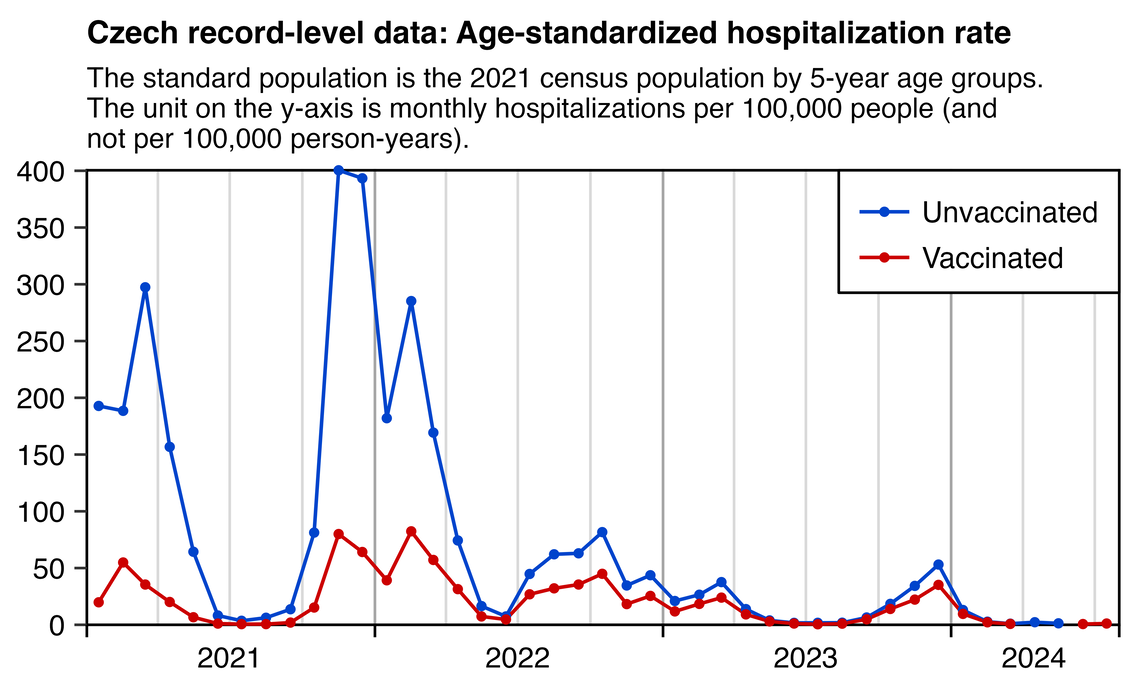
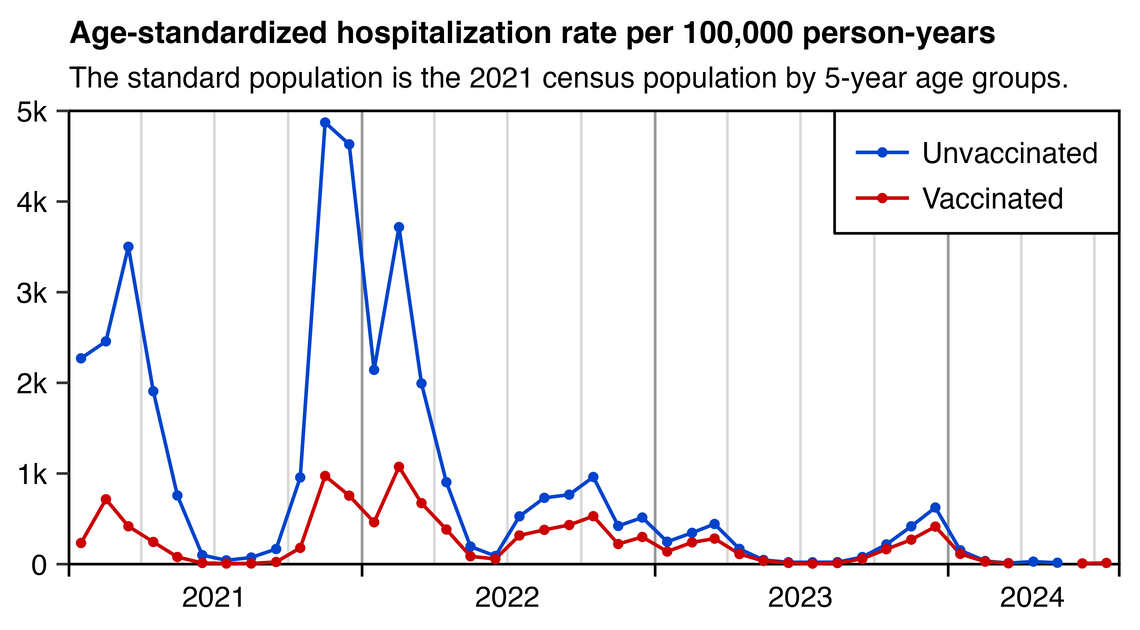
a

Changed region(s): [[0.0, 0.0302, 0.9825, 0.9651]]

diff --git a/czech.html b/czech.html
@@ -82,6 +82,8 @@ blockquote blockquote blockquote,blockquote blockquote .quote,blockquote .quote 
 <li><a href=#Paper_about_two_subsets_of_Czech_record_level_data_from_insurance_companies>Paper about two subsets of Czech record-level data from insurance companies</a></li>
 <li><a href=#Table_for_percentage_of_different_vaccine_types_given_each_month>Table for percentage of different vaccine types given each month</a></li>
 <li><a href=#Kirschs_calculation_for_increase_in_all_cause_mortality>Kirsch's calculation for increase in all-cause mortality</a></li>
+<li><a href=#Comparison_of_yearly_number_of_deaths_according_to_different_sources>Comparison of yearly number of deaths according to different sources</a></li>
+<li><a href=#Proportion_of_doses_that_were_given_by_an_elderly_home>Proportion of doses that were given by an elderly home</a></li>
 </ul>
 
 <h2>
@@ -125,6 +127,7 @@ blockquote blockquote blockquote,blockquote blockquote .quote,blockquote .quote 
 <p>Other:</p>
 <ul>
 <li><a href="https://github.com/PalackyUniversity/batch-dependent-safety/blob/main/data/SUKL-batches-AE.xlsx">https://github.com/PalackyUniversity/batch-dependent-safety/blob/main/data/SUKL-batches-AE.xlsx</a> (28 kiB): Number of deaths and serious adverse events reported per batch.</li>
+<li><a href="https://onemocneni-aktualne.mzcr.cz/api/v2/covid-19/ockovaci-zarizeni.csv">https://onemocneni-aktualne.mzcr.cz/api/v2/covid-19/ockovaci-zarizeni.csv</a>: Names for each vaccination facility code (from <a href="https://www.nzip.cz/datova-sada/18">https://www.nzip.cz/datova-sada/18</a>).</li>
 <li><a href=f/cznuts.csv>f/cznuts.csv</a> (2 kiB): NUTS3 and NUTS4 codes of Czech regions.</li>
 </ul>
 <h2>
@@ -1578,6 +1581,65 @@ month      0 10 20 30 40 50 60 70 80 90 100 Total
   2022-11  2 41 69 64 72 77 83 88 88 78  36    64
   2022-12  2 41 69 64 72 77 83 88 88 78  36    64
   Total    1 28 47 46 54 59 65 73 75 66  33    49</pre>
+<h2>
+<a href=#Comparison_of_yearly_number_of_deaths_according_to_different_sources id=Comparison_of_yearly_number_of_deaths_according_to_different_sources>Comparison of yearly number of deaths according to different sources</a>
+</h2>
+<p>The Czech Statistical Office has published spreadsheets which have deaths by year, ICD code, age group, and region: <a href="https://csu.gov.cz/produkty/zemreli-podle-seznamu-pricin-smrti-pohlavi-a-veku-v-cr-krajich-a-okresech-fgjmtyk2qr">https://csu.gov.cz/produkty/zemreli-podle-seznamu-pricin-smrti-pohlavi-a-veku-v-cr-krajich-a-okresech-fgjmtyk2qr</a>. Eurostat has published the yearly number of deaths by single year age of age: <a href="https://ec.europa.eu/eurostat/data/database">https://ec.europa.eu/eurostat/data/database</a>.</p>
+<p>The yearly number of deaths in the record-level CSV file is otherwise identical to both sources except there's one death missing in 2021:</p>
+<pre>&gt; system(&quot;wget sars2.net/f/{czicd.csv.gz,czpopdead.csv}&quot;)
+&gt; rec=fread(&quot;CR_records.csv&quot;,showProgress=F)
+&gt; reclev=rec[,.(reclev=.N),.(year=year(DatumUmrti))]
+&gt; eurostat=fread(&quot;czpopdead.csv&quot;)[year&gt;=2020,.(eurostat=sum(dead)),year]
+&gt; icd=fread(&quot;czicd.csv.gz&quot;)[year&gt;=2020,.(icd=sum(dead)),year]
+&gt; merge(merge(reclev,eurostat),icd)
+   year reclev eurostat    icd
+1: 2020 129289   129289 129289
+2: 2021 139890   139891 139891
+3: 2022 120219   120219 120219</pre>
+<h2>
+<a href=#Proportion_of_doses_that_were_given_by_an_elderly_home id=Proportion_of_doses_that_were_given_by_an_elderly_home>Proportion of doses that were given by an elderly home</a>
+</h2>
+<p>The file <code>ockovani-profese.csv</code> has about 19 million rows with one row per vaccine dose, which includes a field for the name of the institution or individual who gave each vaccine dose. The file doesn't include a way to indentify which doses were given to the same person, so I didn't just include first doses for each person below but all doses.</p>
+<p>Elderly people who live in long-term care have much higher age-normalized mortality rates than elderly people who don't live in long-term care, so I wanted to check if Pfizer or Moderna vaccines had a higher percentage of vaccinators that were listed as elderly homes, so I searched for vaccinators whose name matched <code>Domov pro seniory|Domov seniorů|Penzion pro seniory</code>. There was only a total of 7,708 matching rows, which might be if the name of the individual vaccinating person was listed as the vaccinator instead, or if people in elderly homes got vaccinated at a hospital:</p>
+<pre>&gt; download.file(&quot;https://onemocneni-aktualne.mzcr.cz/api/v2/covid-19/ockovani-profese.csv&quot;,&quot;ockovani-profese.csv&quot;) # about 4 GiB
+&gt; pro=fread(&quot;ockovani-profese.csv&quot;)
+&gt; ta=table(pro$zarizeni_nazev)
+&gt; sort(ta[grep(&quot;Domov pro seniory|Domov seniorů|Penzion pro seniory&quot;,names(ta))],T)
+           Domov pro seniory Zahradní Město - ordinace             Domov pro seniory Háje, PL pro dospělé
+                                                  1324                                               1014
+             Domov pro seniory Chodov, praktický lékař                         Domov pro seniory Malešice
+                                                   966                                                959
+           Domov pro seniory Kobylisy, praktický lékař                              Domov pro seniory Krč
+                                                   536                                                512
+      Domov pro seniory Kamenec, Slezská Ostrava, p.o.                      Domov seniorů Vysočany s.r.o.
+                                                   490                                                435
+                              Domov pro seniory Kladno                    Domov seniorů U Přehrady, z. s.
+                                                   361                                                322
+    Domov pro seniory Osoblaha, příspěvková organizace             Domov pro seniory Frýdek-Místek, p. o.
+                                                   185                                                175
+                    Domov pro seniory Holásecká, p. o.     Domov pro seniory Seniorcentrum Slavkov, p. o.
+                                                   103                                                101
+                     Domov pro seniory U Pramene Louny           Penzion pro seniory Frýdek-Místek, p. o.
+                                                    86                                                 59
+                    Domov pro seniory Foltýnova, p. o.    Domov pro seniory Nopova,příspěvková organizace
+                                                    50                                                 18
+                   Domov pro seniory Kosmonautů, p. o.     Domov seniorů Jankov, poskytovatel soc. služeb
+                                                     8                                                  4</pre>
+<p>But anyway, compared to a baseline of all vaccine types, the excess age-normalized proportion of rows where the vaccinator was one of the facilities listed above was about 50% for SPIKEVAX but about 8% for Comirnaty:</p>
+<pre>&gt; p=pro[,.N,.(vaxtype=vakcina,fac=zarizeni_nazev,age=vekova_skupina)]
+&gt; p=p[,.(N=sum(N),match=sum(N*grepl(&quot;Domov pro seniory|Domov seniorů|Penzion pro seniory&quot;,fac))),.(vaxtype,age)]
+&gt; a=merge(p,p[,.(base=sum(match)/sum(N)),age])[,base:=base*N]
+&gt; a[,.(excess=(sum(match)/sum(base)-1)*100,match=sum(match),N=sum(N)),vaxtype][,matchpct:=match/N*100][order(-N)][N&gt;1e4]|&gt;print(r=F)
+                              vaxtype  excess match        N matchpct # excess is adjusted for age but matchpct is not
+                            Comirnaty    7.64  6071 15037534 0.040372
+                             SPIKEVAX   50.47  1111  1634938 0.067954
+                            VAXZEVRIA  -82.64   104   887562 0.011717
+ Comirnaty Original/Omicron BA.4/BA.5  -37.68   158   436729 0.036178
+             COVID-19 Vaccine Janssen  -98.30     2   415094 0.000482
+           Comirnaty Omicron XBB.1.5.  -35.76   172   375130 0.045851
+      Comirnaty Original/Omicron BA.1    9.70    89   121312 0.073365
+                       Comirnaty 5-11 -100.00     0   112874 0.000000
+                            Nuvaxovid -100.00     0    11311 0.000000</pre>
 <script>
 let q=document.querySelectorAll('a,code,pre')
 for(let i=0;e=q[i];i++)e.innerHTML=e.innerHTML.replace(/(\w{60,})/g,x=>x.replace(/./g,"$&<wbr>")).replace(/([\041-\045\047-\057\072\075\077-\100\133-\137\173-\176])/g,"$1<wbr>")

diff --git a/czech3.html b/czech3.html
@@ -856,13 +856,13 @@ me[,4:5]=round(me[,4:5]);print(me,r=F)</pre>
 <a href=#Age_standardized_hospitalization_rate_by_vaccination_status id=Age_standardized_hospitalization_rate_by_vaccination_status>Age-standardized hospitalization rate by vaccination status</a>
 </h2>
 <p>The date of hospitalization was missing from the CSV file I used to get hospitalizations by vaccine type in a previous section, but there's another file which includes the week of hospitalization but not vaccine type: <a href="https://onemocneni-aktualne.mzcr.cz/api/v2/covid-19/ockovani-hospitalizace-tyden.csv">https://onemocneni-aktualne.mzcr.cz/api/v2/covid-19/ockovani-hospitalizace-tyden.csv</a>.</p>
-<p>I used the file to make the plot below, which shows that during the COVID wave in December 2021, unvaccinated people had about 6 times higher age-standardized hospitalization rate than vaccinated people. However the difference between the rates got smaller over time which may have been because unvaccinated people acquired natural immunity over time. So by December 2023 the rate was only about 1.5 times higher in unvaccinated people than in vaccinated people:</p>
+<p>I used the file to make the plot below, which shows that during the COVID wave in December 2021, unvaccinated people had about 6 times higher age-standardized hospitalization rate than vaccinated people. However the difference between the rates got smaller, over time which may have been because unvaccinated people acquired natural immunity over time. So by December 2023 the rate was only about 1.5 times higher in unvaccinated people than in vaccinated people:</p>
 <div class="width6">
 <img src="i/czech-hospstandard.png">
 </div>
-<pre>library(data.table);library(ggplot2);library(lubridate)
+<pre>library(data.table);library(ggplot2)
 
-system(&quot;wget onemocneni-aktualne.mzcr.cz/api/v2/covid-19/ockovani-hospitalizace-tyden.csv sars2.net/f/cz{bucketsdaily.csv.gz,census2021pop.csv}&quot;)
+# system(&quot;wget onemocneni-aktualne.mzcr.cz/api/v2/covid-19/ockovani-hospitalizace-tyden.csv sars2.net/f/cz{bucketsdaily.csv.gz,census2021pop.csv}&quot;)
 
 t=fread(&quot;ockovani-hospitalizace-tyden.csv&quot;)
 t=t[,.(date=tyden_od+3,hosp=c(hospitalizovani_celkem-hospitalizovani_bez_ockovani,hospitalizovani_bez_ockovani),status=rep(c(&quot;Vaccinated&quot;,&quot;Unvaccinated&quot;),each=.N),age=as.integer(sub(&quot;[-+].*&quot;,&quot;&quot;,vekova_skupina)))]
@@ -879,7 +879,7 @@ me=merge(me,me[,.(base=sum(hosp)/sum(pop)),age])[,base:=base*pop]
 me=merge(me,fread(&quot;czcensus2021pop.csv&quot;)[,.(stdpop=sum(pop)),.(age=ifelse(age&lt;25,0,pmin(age,95)%/%5*5))])
 
 me[,month:=as.Date(paste0(month,&quot;-1&quot;))]
-p=me[,.(hosp=sum(hosp/pop*stdpop/sum(stdpop)*1e5*lubridate::days_in_month(month))),.(status,month)]
+p=me[,.(hosp=sum(hosp/pop*stdpop/sum(stdpop)*365e5)),.(status,month)]
 
 xstart=as.Date(&quot;2021-1-1&quot;);xend=as.Date(&quot;2024-8-1&quot;)
 xlab=c(rbind(&quot;&quot;,2021:2024),&quot;&quot;)
@@ -901,7 +901,7 @@ geom_vline(xintercept=c(xstart,xend),linewidth=.3,lineend=&quot;square&quot;)+
 geom_hline(yintercept=c(ystart,0,yend),linewidth=.3,lineend=&quot;square&quot;)+
 geom_line(aes(color=status),linewidth=.4)+
 geom_point(aes(color=status),size=.5)+
-labs(title=&quot;Czech record-level data: Age-standardized hospitalization rate&quot;,subtitle=paste0(&quot;The standard population is the 2021 census population by 5-year age groups. The unit on the y-axis is monthly hospitalizations per 100,000 people (and not per 100,000 person-years).&quot;)|&gt;stringr::str_wrap(76),x=NULL,y=NULL)+
+labs(title=&quot;Age-standardized hospitalization rate per 100,000 person-years&quot;,subtitle=paste0(&quot;The standard population is the 2021 census population by 5-year age groups.&quot;)|&gt;stringr::str_wrap(76),x=NULL,y=NULL)+
 scale_x_date(limits=c(xstart,xend),breaks=xbreak,labels=xlab)+
 scale_y_continuous(limits=c(ystart,yend),breaks=seq(ystart,yend,ystep),labels=\(x)ifelse(x&gt;=1e3,paste0(x/1e3,&quot;k&quot;),x))+
 scale_color_manual(values=color)+
@@ -926,7 +926,9 @@ theme(axis.text=element_text(size=7,color=&quot;black&quot;),
   plot.margin=margin(3,5,4,4),
   plot.subtitle=element_text(size=6.7,margin=margin(0,0,4,0)),
   plot.title=element_text(size=7.5,face=&quot;bold&quot;,margin=margin(2,0,4,0)))
-ggsave(&quot;1.png&quot;,width=3.8,height=2.3,dpi=300)</pre>
+ggsave(&quot;0.png&quot;,width=3.8,height=2.1,dpi=300*4)
+system(&quot;magick 0.png -resize 25% 1.png&quot;)
+qp()</pre>
 <h2>
 <a href=#Hospitalizations_by_age_group_and_vaccination_status id=Hospitalizations_by_age_group_and_vaccination_status>Hospitalizations by age group and vaccination status</a>
 </h2>
@@ -951,7 +953,7 @@ $ csvtk cut -f location,date,weekly_hosp_admissions owid-covid-data.csv|grep Cze
 <p>And also if you add together the blue and red lines during the peak in March 2021, then the combined height of the lines is lower in old age groups that got vaccinated earlier.</p>
 <p>However it's also weird that during the peak in February 2021, ages 12-19 have almost the same number of hospitalizations in vaccinated and unvaccinated people even though the percentage of vaccinated people is not that high.</p>
 <p><img src=i/czech-hospvaxun.png style=max-width:520px></p>
-<p>The next plot shows the hospitalization rate per million people instead of the raw number of hospitalizations. Now vaccinated people in ages 12-19 got a big spike in the hospitalization rate around April 2021, but it's probably because vulnerable or immunocompromised people had been priorized for vaccination. But otherwise unvaccinated people generally have a much higher hospitalization rate than vaccinated people up to around mid-2022, after which the difference gets smaller which might be because unvaccinated people have acquired natural immunity:</p>
+<p>The next plot shows the hospitalization rate per million people instead of the raw number of hospitalizations. Now vaccinated people in ages 12-19 got a big spike in the hospitalization rate around April 2021, but it's probably because vulnerable groups of people had been priorized to be vaccinated early. But otherwise unvaccinated people generally have a much higher hospitalization rate than vaccinated people up to around mid-2022, after which the ratio between vaccinated and unvaccinated people gets smaller which might be because unvaccinated people have acquired natural immunity:</p>
 <p><img src=i/czech-hospvaxun-2.png style=max-width:520px></p>
 <pre>library(data.table);library(ggplot2)
 
